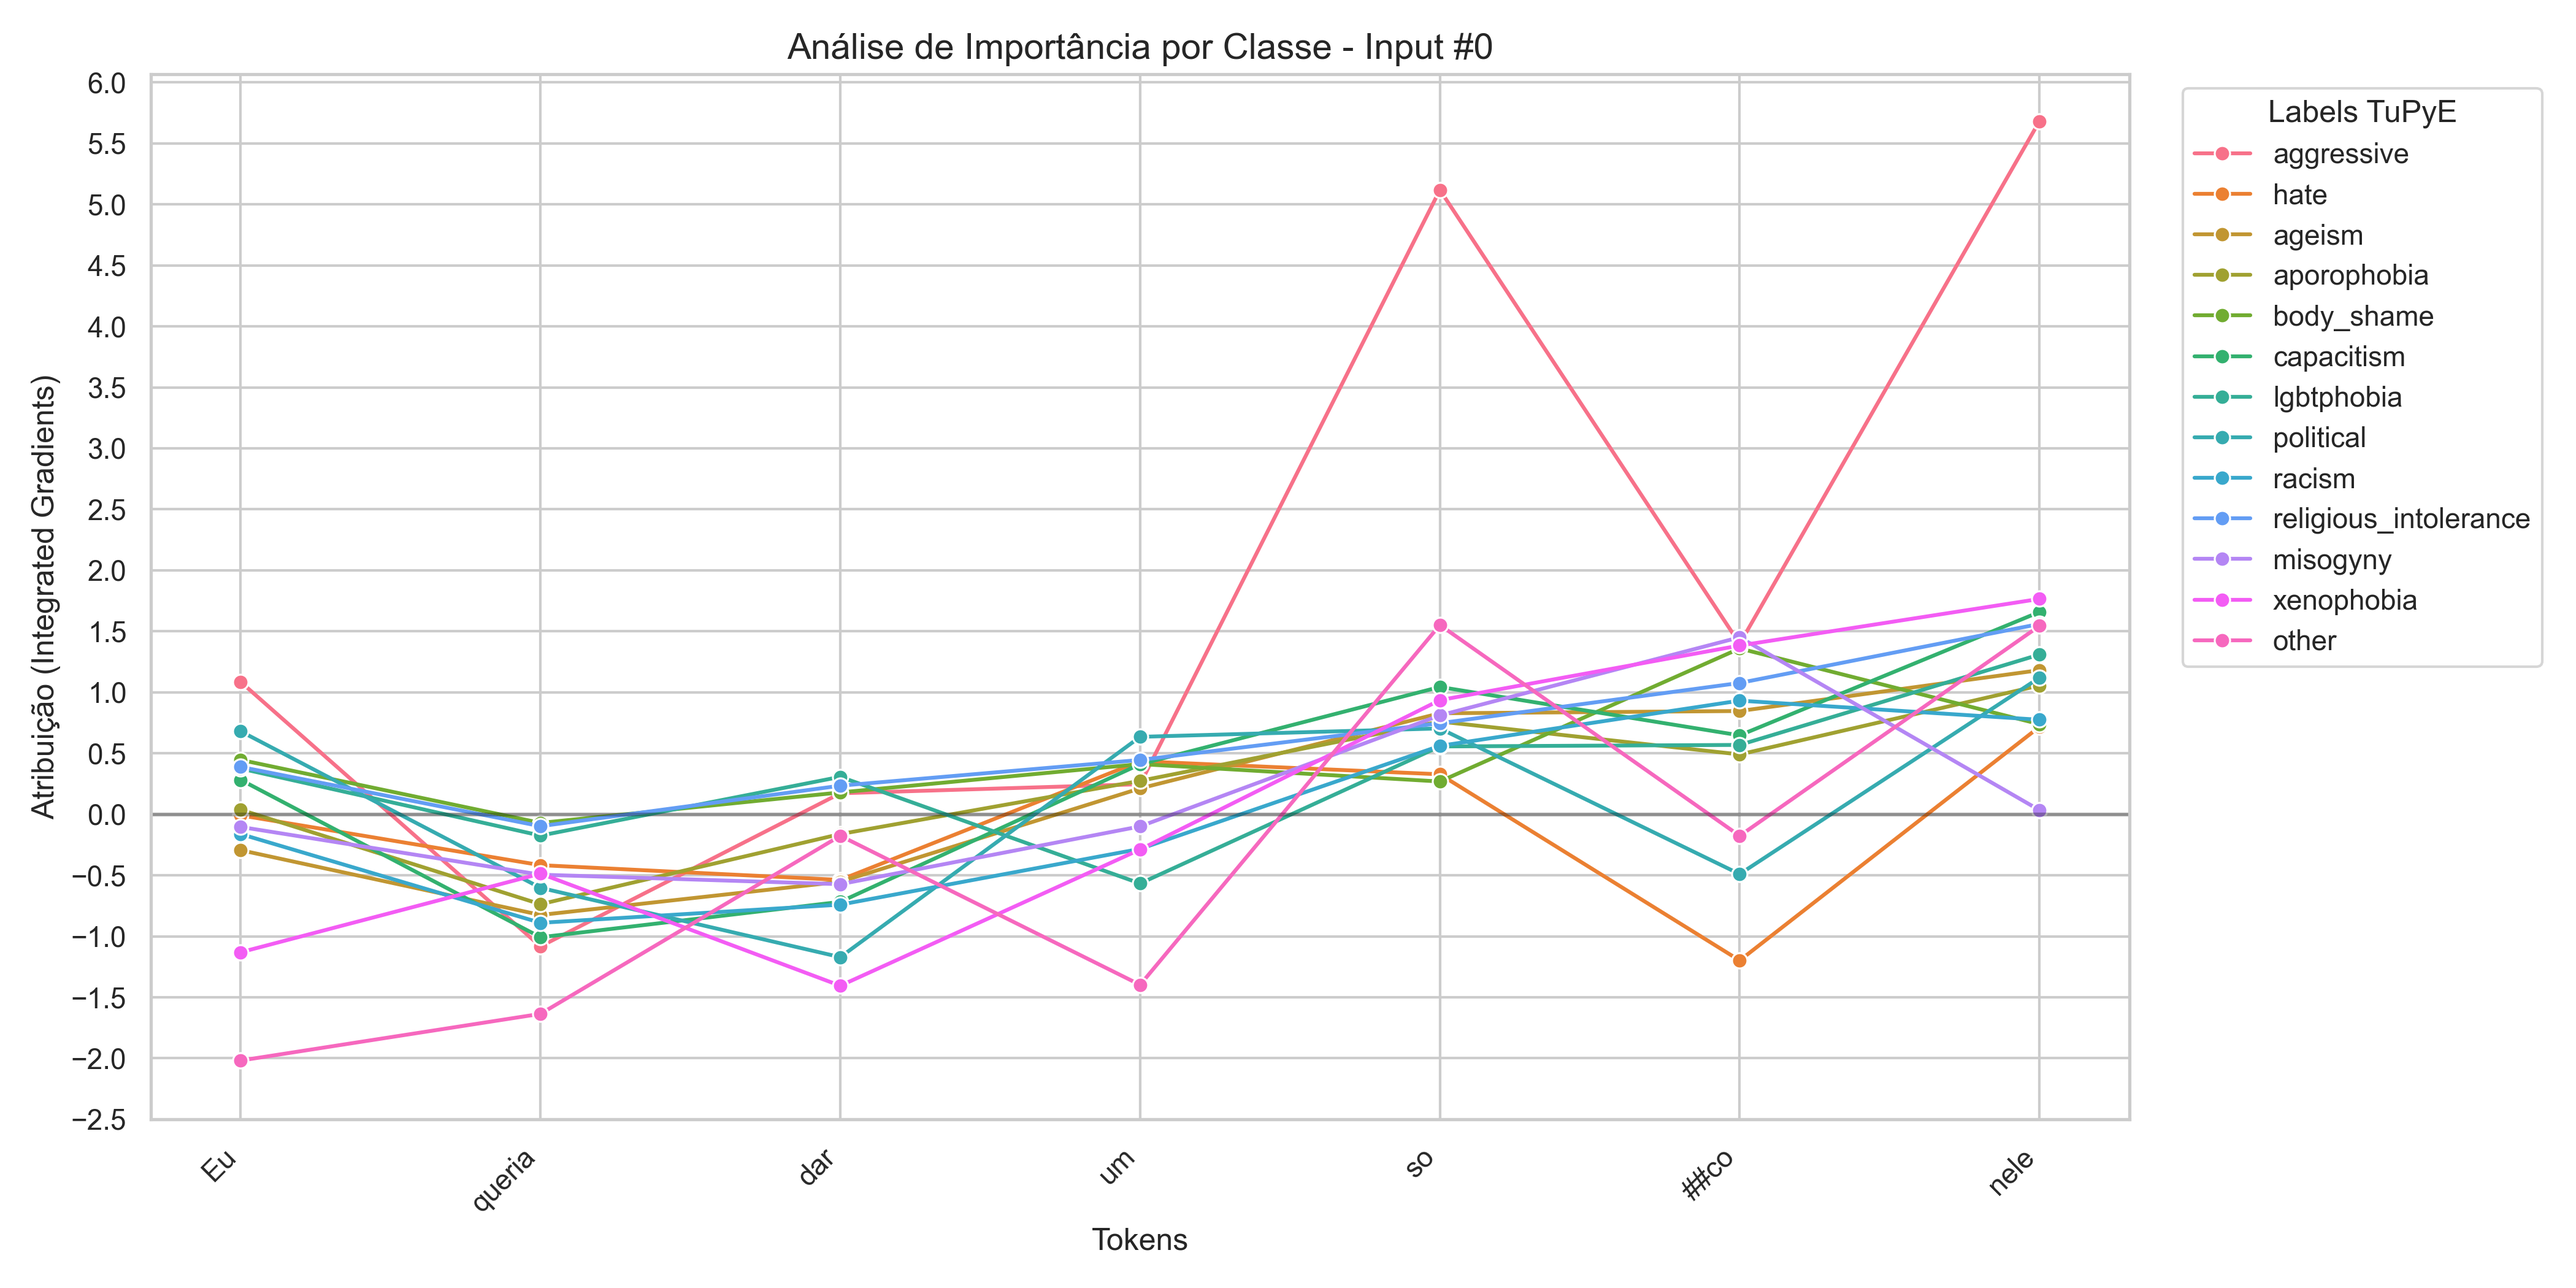
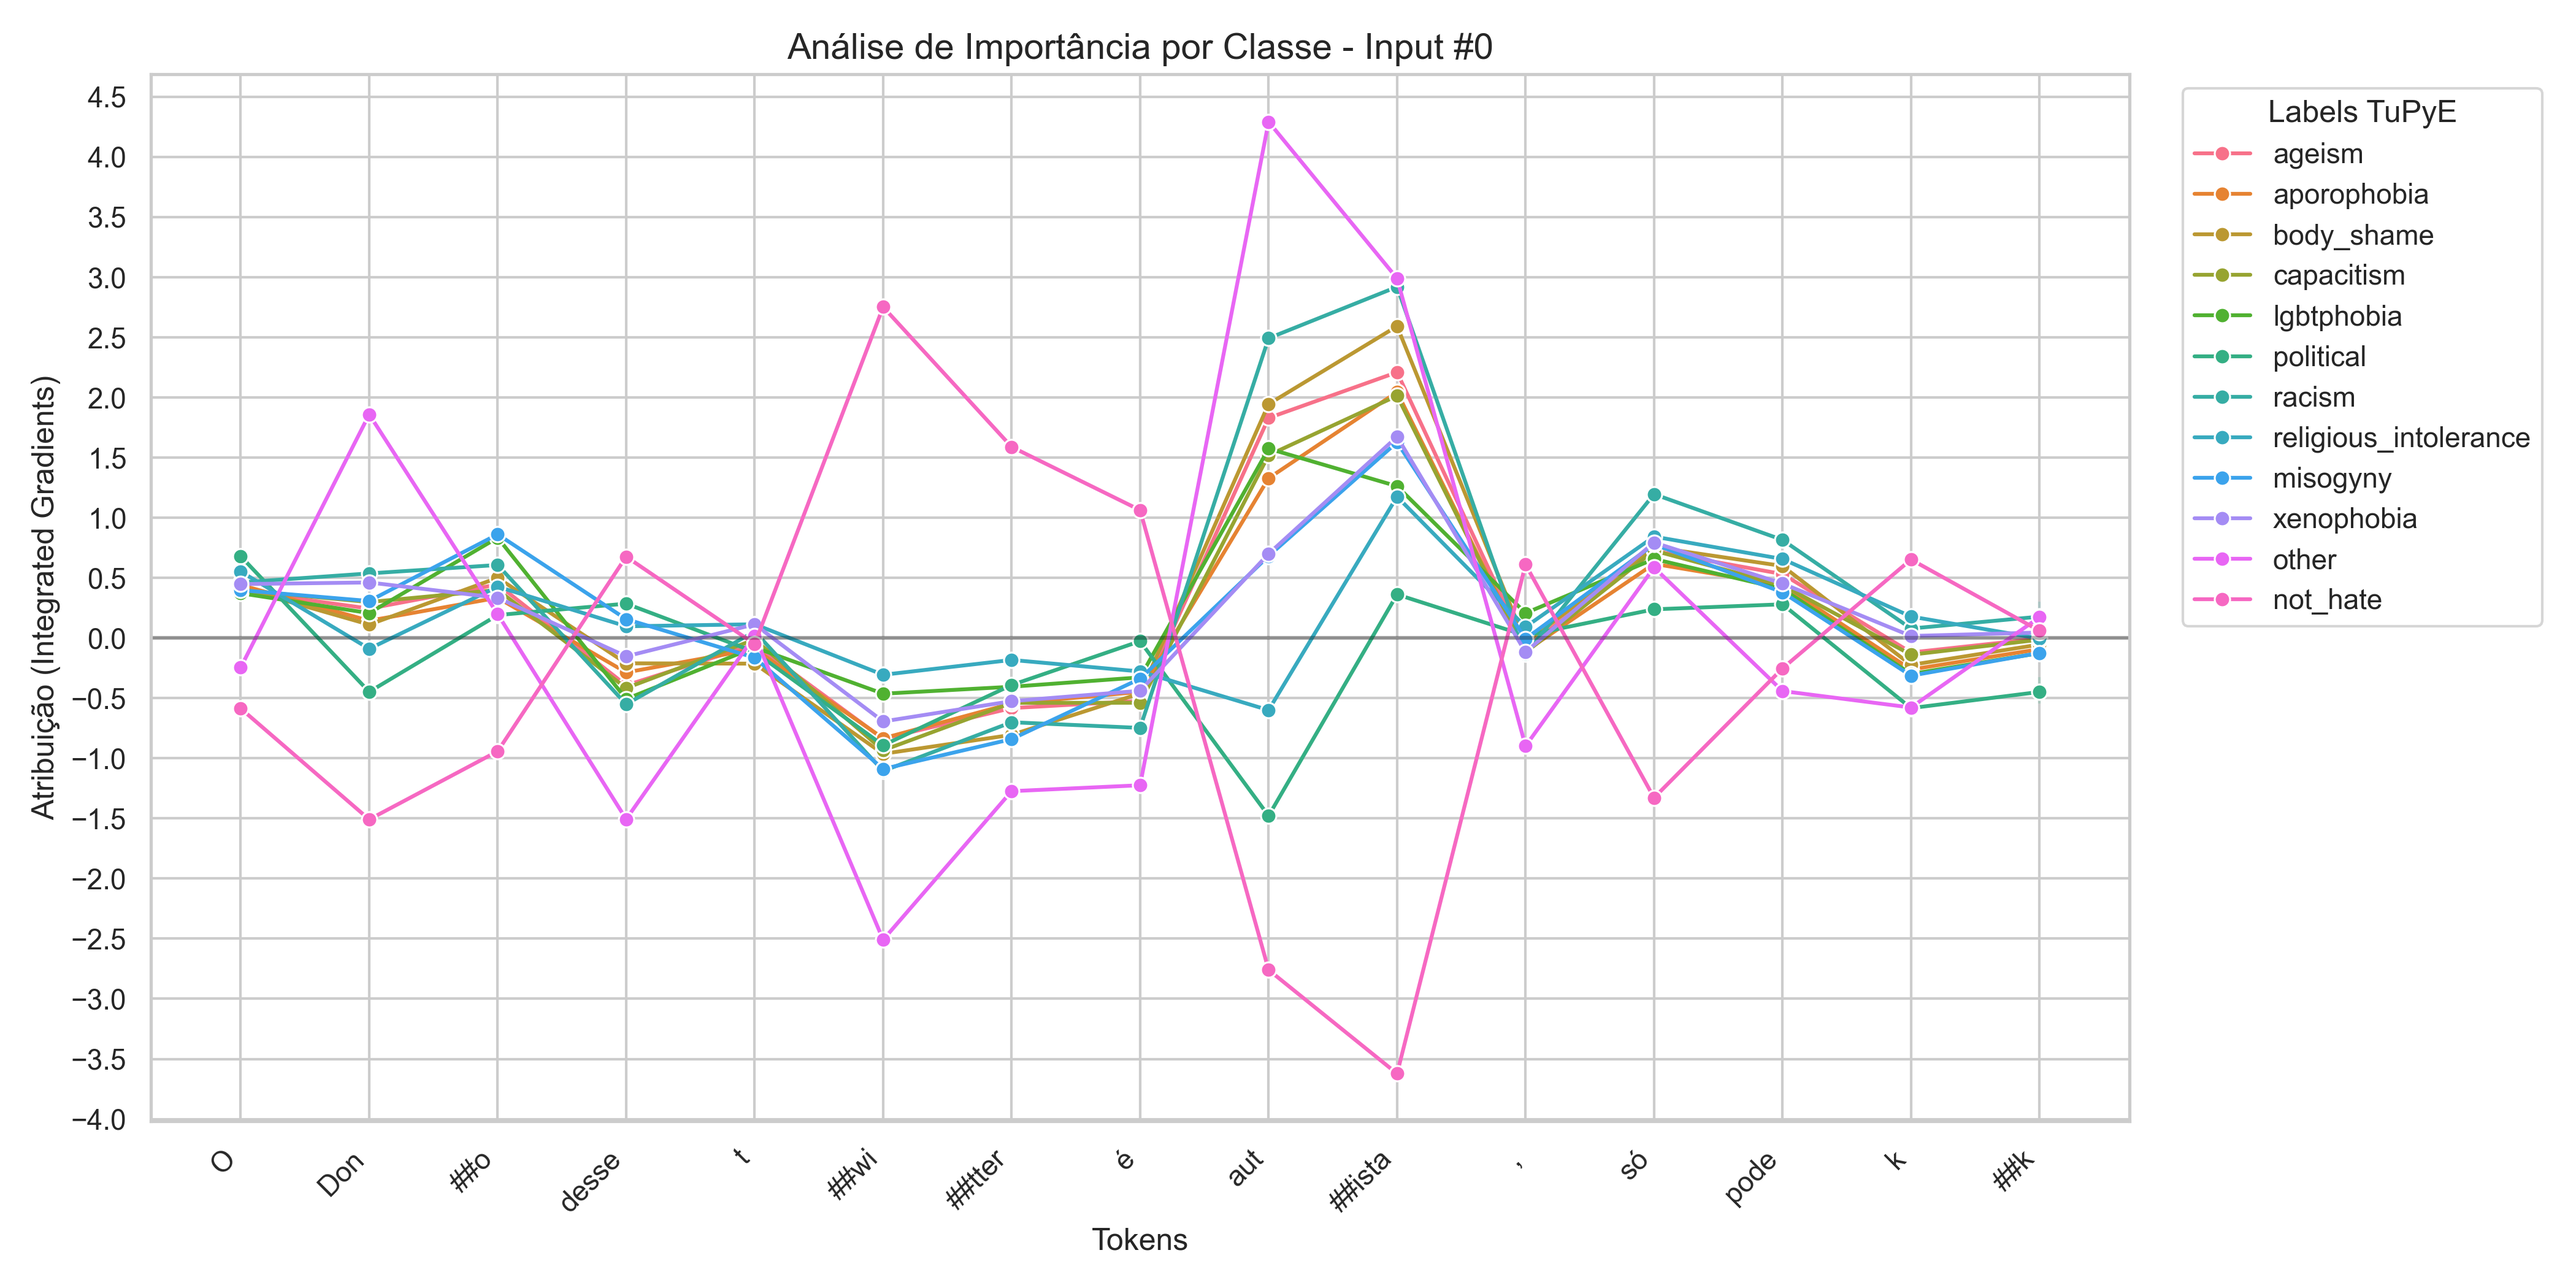
resultados com BERTimbaus pré-treinados

diff --git a/main.py b/main.py
@@ -1,8 +1,11 @@
 from torch.utils.data import DataLoader
-import pandas as pd
-from rich.console import Console
-from rich.markdown import Markdown
+import argparse
 from src import *
+
+parser = argparse.ArgumentParser()
+parser.add_argument("-m", "--model", type=str, required=False, default="BERTimbau-base", help="Specify a model name present in config.models")
+
+args = parser.parse_args()
 
 if __name__ == "__main__":
     
@@ -12,30 +15,33 @@ if __name__ == "__main__":
     
     models = config.models
     
-    for key, value in models.items(): #apenas testando se é possível carregar
-        modelc = Model(value, key)
-        
-        modelc.getLoader(train, test, batch_size=32)
-        
-        modelc.getTrainer(epochs_fold=5, compute_metrics=classify.compute_metrics)
-            
-        #modelc = classify.fineTune(modelc, repeat=4)
-        
-        eval_data = classify.testModel(modelc)
-        print(eval_data)
+    name = args.model
+    link = models[name]
     
-        #dataVisualization.plotLosses(losses, save_path=f"losses/{modelc.name}.png", show=False)
-                
-        ig_dataset = loadDataset.igDataset()
-        
-        ig_tokenized = modelc.tokenize(ig_dataset).with_format(type="torch", columns=["input_ids", "attention_mask", "labels"])
-        
-        ig_loader = DataLoader(ig_tokenized, batch_size=32, shuffle=False, num_workers=4, collate_fn=modelc.data_collator)
-        
-        ig_predictions = classify.classifyInputs(modelc, ig_loader)
+    modelc = Model(link, name)
+    
+    modelc.getLoader(train, test, batch_size=32)
+    
+    modelc.getTrainer(epochs_fold=5, compute_metrics=classify.compute_metrics)
+    
+    if "tupy" not in modelc.link.lower():
+        modelc = classify.fineTune(modelc, repeat=4)
+    
+    eval_data = classify.testModel(modelc)
+    print(eval_data)
 
-        print(ig_predictions)
-        
-        interpret.explainPrediction(modelc, ig_tokenized, show_graph=False)
-        
-        del modelc
+    #dataVisualization.plotLosses(losses, save_path=f"losses/{modelc.name}.png", show=False)
+            
+    ig_dataset = loadDataset.igDataset()
+    
+    ig_tokenized = modelc.tokenize(ig_dataset).with_format(type="torch", columns=["input_ids", "attention_mask", "labels"])
+    
+    ig_loader = DataLoader(ig_tokenized, batch_size=32, shuffle=False, num_workers=4, collate_fn=modelc.data_collator)
+    
+    ig_predictions = classify.classifyInputs(modelc, ig_loader)
+
+    print(ig_predictions)
+    
+    interpret.explainPrediction(modelc, ig_tokenized, show_graph=False)
+    
+    del modelc

diff --git a/src/loadDataset.py b/src/loadDataset.py
@@ -25,7 +25,7 @@ def loadToken(file_path):
 def stratifiedIndices(dataset, subset_size):
     
     # 1. Extract labels
-    y = np.array([dataset[col] for col in config.classes]).T
+    y = np.array([dataset[col] for col in config.dataset_classesclasses]).T
     
     # 2. Create indices
     indices = np.arange(len(y)).reshape(-1, 1)
@@ -79,8 +79,8 @@ def loadTuPyE(train_size=-1, test_size=-1): #-1 quer dizer carregar inteiro
             
         
         #depois de carregados, coloca em formato do pytorch
-        train = train.with_format("torch", columns=config.classes)
-        test = test.with_format("torch", columns=config.classes)
+        train = train.with_format("torch", columns=config.dataset_classes)
+        test = test.with_format("torch", columns=config.dataset_classes)
         
         dataset_panel.addMessage(f"\n### Datasets loaded")
         
@@ -93,12 +93,13 @@ def loadTuPyE(train_size=-1, test_size=-1): #-1 quer dizer carregar inteiro
 
 
 def igDataset():    
+    #                                                          hate  age  apo  bod  cap  lgb  pol  rac  rel  mis  xen  oth
     dataset = [
-        ["Eu queria dar um soco nele", 1, 0, 0, 0, 0, 0, 0, 0, 0, 0, 0, 0, 0],
-        ["Texto neutro de exemplo",     0, 0, 0, 0, 0, 0, 0, 0, 0, 0, 0, 0, 0]
+        ["O Dono desse twitter é autista, só pode kkkkkkkk",      1,    0,   0,   0,   1,   0,   0,   0,   0,   0,   0,   0],
+        ["Texto neutro de exemplo",                                0,    0,   0,   0,   0,   0,   0,   0,   0,   0,   0,   0],
     ]
     
-    dataset = pd.DataFrame(dataset, columns=['text'] + config.classes)
+    dataset = pd.DataFrame(dataset, columns=['text', 'hate'] + config.dataset_classes)
     
     return Dataset.from_pandas(dataset)
 
@@ -108,10 +109,10 @@ def prepareDataset(tokenized_ds):
     que é o que o Trainer procura.
     """
     def mergeLabels(example):
-        example["labels"] = [float(example[c]) for c in config.classes]
+        example["labels"] = [np.float32(example[c]) for c in config.dataset_classes]
         return example
 
     ds = tokenized_ds.map(mergeLabels)
-    ds = ds.remove_columns(config.classes)
+    ds = ds.remove_columns(config.dataset_classes)
     ds.set_format(type="torch", columns=["input_ids", "attention_mask", "labels"])
     return ds

diff --git a/src/model/modelClass.py b/src/model/modelClass.py
@@ -1,6 +1,7 @@
 from transformers import AutoModelForSequenceClassification, AutoTokenizer, Trainer, DataCollatorWithPadding
 from torch.utils.data import DataLoader
 from pathlib import Path
+import numpy as np
 from .modelUtils import *
 from .. import config
 from .. import fileHandler
@@ -43,9 +44,9 @@ class Model():
         self.panel.addMessage(f"\n ## Creating new {self.name} \n")
         
         if 'gemma' in self.name:
-            self.model, self.tokenizer = getGemma(self)
+            self.model, self.tokenizer, self.config = getGemma(self)
         if 'bertimbau' in self.name.lower():
-            self.model, self.tokenizer = getBERTimbau(self)
+            self.model, self.tokenizer, self.config = getBERTimbau(self)
         else:
             raise ValueError("Unsupported model")
         
@@ -56,7 +57,7 @@ class Model():
         self.tokenizer = AutoTokenizer.from_pretrained(self.save_dir)
         self.model = AutoModelForSequenceClassification.from_pretrained(
             self.save_dir,
-            num_labels=len(config.classes),
+            num_labels=len(config.model_classes),
             problem_type="multi_label_classification"
         )
         
@@ -75,10 +76,25 @@ class Model():
         
         def tokenizeInstance(instance):
             tokens = tokenizer(instance["text"], truncation=True, max_length=512)
-            tokens["labels"] = [[float(instance[c][i]) for c in config.classes] for i in range(len(instance["text"]))]
+            
+            labels = []
+            batch_size=len(instance["text"])
+            
+            for i in range(batch_size):
+                row = [np.float32(instance[c][i]) for c in config.dataset_classes]
+
+                # not_hate = 1 se hate == 0, reproduzindo o que os autores fizeram
+                not_hate = 1.0 - np.float32(instance["hate"][i])
+                row.append(not_hate)
+
+                labels.append(row)
+
+            tokens["labels"] = labels
+            
             return tokens
         
-        ds = dataset.map(tokenizeInstance, batched=True, remove_columns=config.classes)
+        cols_to_remove = ["text"]
+        ds = dataset.map(tokenizeInstance, batched=True, remove_columns=cols_to_remove)
         return ds
     
     def getTrainer(self, epochs_fold, compute_metrics):

diff --git a/src/classify.py b/src/classify.py
@@ -1,12 +1,11 @@
 import torch
 from tqdm import tqdm
 from sklearn.metrics import f1_score, accuracy_score
-from datasets import concatenate_datasets
 from sklearn.model_selection import KFold
 import pandas as pd
 from . import config
 from .model.modelClass import Model
-from .fileHandler import getJsonInfo, updateJson
+from .fileHandler import getJsonInfo, updateJson, writeCsvLine
 
 try:
     from google.colab import files
@@ -31,22 +30,23 @@ def compute_metrics(pred):
         'f1-micro': f1_mi
     }
 
-def fineTune(modelc: Model, repeat=0):
-    
-    full_dataset = concatenate_datasets([modelc.train_tokenized, modelc.test_tokenized])
+def fineTune(modelc: Model, repeat: int):
     
     for r in range(repeat):
     
         kf = KFold(n_splits=3, shuffle=True, random_state=42)
         
-        for train_index, test_index in kf.split(full_dataset):
-            train_split = full_dataset.select(train_index)
-            val_split = full_dataset.select(test_index)
+        for train_index, test_index in kf.split(modelc.train_tokenized):
+            train_split = modelc.train_tokenized.select(train_index)
+            val_split = modelc.train_tokenized.select(test_index)
             
             modelc.trainer.train_dataset = train_split
-            modelc.trainer.train()
+            train_output = modelc.trainer.train()
+            loss = train_output.training_loss
             
-            modelc.trainer.evaluate(eval_dataset=val_split) 
+            val_data = modelc.trainer.evaluate(eval_dataset=val_split)
+            
+            writeCsvLine(f"{config.losses_dir}/{modelc.name}", [r, val_data['accuracy'], val_data['f1-macro'], val_data['f1-micro'], loss])
             
         modelc.saveModel(1)
     

diff --git a/src/interpret.py b/src/interpret.py
@@ -33,13 +33,13 @@ def explainPrediction(modelc, tokenized_dataset, show_graph=True):
         tokens = modelc.tokenizer.convert_ids_to_tokens(input_ids[0])
         tokens = [t for t in tokens if t not in ['[CLS]', '[SEP]']]
         
-        id_val = getTextId(tokens).iloc[0]
+        id_val = getTextId(tokens)
         
         id = [id_val] * len(tokens)
         
         df_sentence = pd.DataFrame({'text_id': id, 'token': tokens})
         
-        for target_idx, class_name in tqdm(enumerate(config.classes), desc="Attributing values"):
+        for target_idx, class_name in tqdm(enumerate(config.model_classes), desc="Attributing values"):
             attributions = lig.attribute(inputs=input_ids, target=target_idx, n_steps=50)
             attr_array = attributions.sum(dim=-1).squeeze(0).cpu().detach().numpy()
             
@@ -56,16 +56,15 @@ def explainPrediction(modelc, tokenized_dataset, show_graph=True):
 def getTextId(tokens, text_id_csv=f"{config.ig_results_dir}/text-id.csv"):
     
     text = " ".join(tokens)
-    
-    df = pd.read_csv(text_id_csv)
-    
+    df = pd.read_csv(text_id_csv, encoding='utf-8-sig')
     row = df[df['text'] == text]
     
     if len(row) == 0:
-        writeCsvLine(text_id_csv, [len(df), text])
-        return len(df)
+        new_id = len(df)
+        writeCsvLine(text_id_csv, [new_id, text])
+        return new_id
     
     else:
-        return row["id"]
+        return int(row["id"].iloc[0])
     
     #procurar por texto/id, se não tiver incluir novo e retornar, se existir apenas retornar

diff --git a/src/model/modelUtils.py b/src/model/modelUtils.py
@@ -1,6 +1,6 @@
 from .. import config
 from torch.cuda import is_available
-from transformers import GemmaForSequenceClassification, AutoTokenizer, BertForSequenceClassification, TrainingArguments
+from transformers import GemmaForSequenceClassification, AutoTokenizer, AutoModelForSequenceClassification, TrainingArguments, AutoConfig
 
 def getTrainingArgs(modelc, epochs, batch_size=32, lr=3e-05):
         steps_per_epoch = round(len(modelc.train_tokenized) / batch_size)
@@ -29,21 +29,17 @@ def getGemma(modelc):
     
     model = GemmaForSequenceClassification.from_pretrained(
         modelc.link,
-        num_labels=len(config.classes),
+        num_labels=len(config.model_classes),
         problem_type="multi_label_classification"
     )
     
     model.config.pad_token_id = tokenizer.pad_token_id
     
-    return model, tokenizer
+    return model, tokenizer #achar config
 
 def getBERTimbau(modelc):
+    model = AutoModelForSequenceClassification.from_pretrained(modelc.link, problem_type="multi_label_classification")
     tokenizer = AutoTokenizer.from_pretrained(modelc.link)
+    config = AutoConfig.from_pretrained(modelc.link)
     
-    model = BertForSequenceClassification.from_pretrained(
-        modelc.link,
-        num_labels=len(config.classes),
-        problem_type="multi_label_classification"
-    )
-    
-    return model, tokenizer
+    return model, tokenizer, config

diff --git a/src/config.py b/src/config.py
@@ -4,11 +4,13 @@ import torch
 device = "cuda" if torch.cuda.is_available() else "cpu"
 
 #classes da classificação multilabel
-classes = ['aggressive', 'hate', 'ageism', 'aporophobia', 'body_shame', 'capacitism', 'lgbtphobia', 'political', 'racism', 'religious_intolerance', 'misogyny', 'xenophobia', 'other']
+dataset_classes = ['ageism', 'aporophobia', 'body_shame', 'capacitism', 'lgbtphobia', 'political', 'racism', 'religious_intolerance', 'misogyny', 'xenophobia', 'other']
+
+model_classes = ["ageism", "aporophobia", "body_shame", "capacitism", "lgbtphobia", "political", "racism", "religious_intolerance", "misogyny", "xenophobia", "other", "not_hate"]
 
 models = {
-    "BERTimbau-base": "neuralmind/bert-base-portuguese-cased",
-    "BERTimbau-large": "neuralmind/bert-large-portuguese-cased",
+    "BERTimbau-base": "Silly-Machine/TuPy-Bert-Base-Multilabel",
+    "BERTimbau-large": "Silly-Machine/TuPy-Bert-Large-Multilabel",
     "Albertina": "PORTULAN/albertina-900m-portuguese-ptbr-encoder-brwac", #talvez trocar para versão menor
     "Bernice": "jhu-clsp/bernice",
     "Gemma": "google/gemma-4-E4B-it",

diff --git a/src/fileHandler.py b/src/fileHandler.py
@@ -28,7 +28,10 @@ def getJsonInfo(json_path, fields=[]):
     data = []
 
     for field in fields:
-        data.append(json_data[field])
+        if field in json_data.keys():
+            data.append(json_data[field])
+        else:
+            data.append({}) #se campo não existir, vira dicionário vazio
         
     return data
 
@@ -36,8 +39,8 @@ def writeJson(json_path, dic):
     with open(json_path, "w") as f:
         json.dump(dic, f, indent=4)
         
-def writeCsvLine(file_path, data):
-    with open(file_path, 'a', newline='') as csvfile:
+def writeCsvLine(file_path, data, encoding='utf-8-sig'):
+    with open(file_path, 'a', newline='', encoding=encoding) as csvfile:
         csvwriter = csv.writer(csvfile)
 
         csvwriter.writerow(data)
